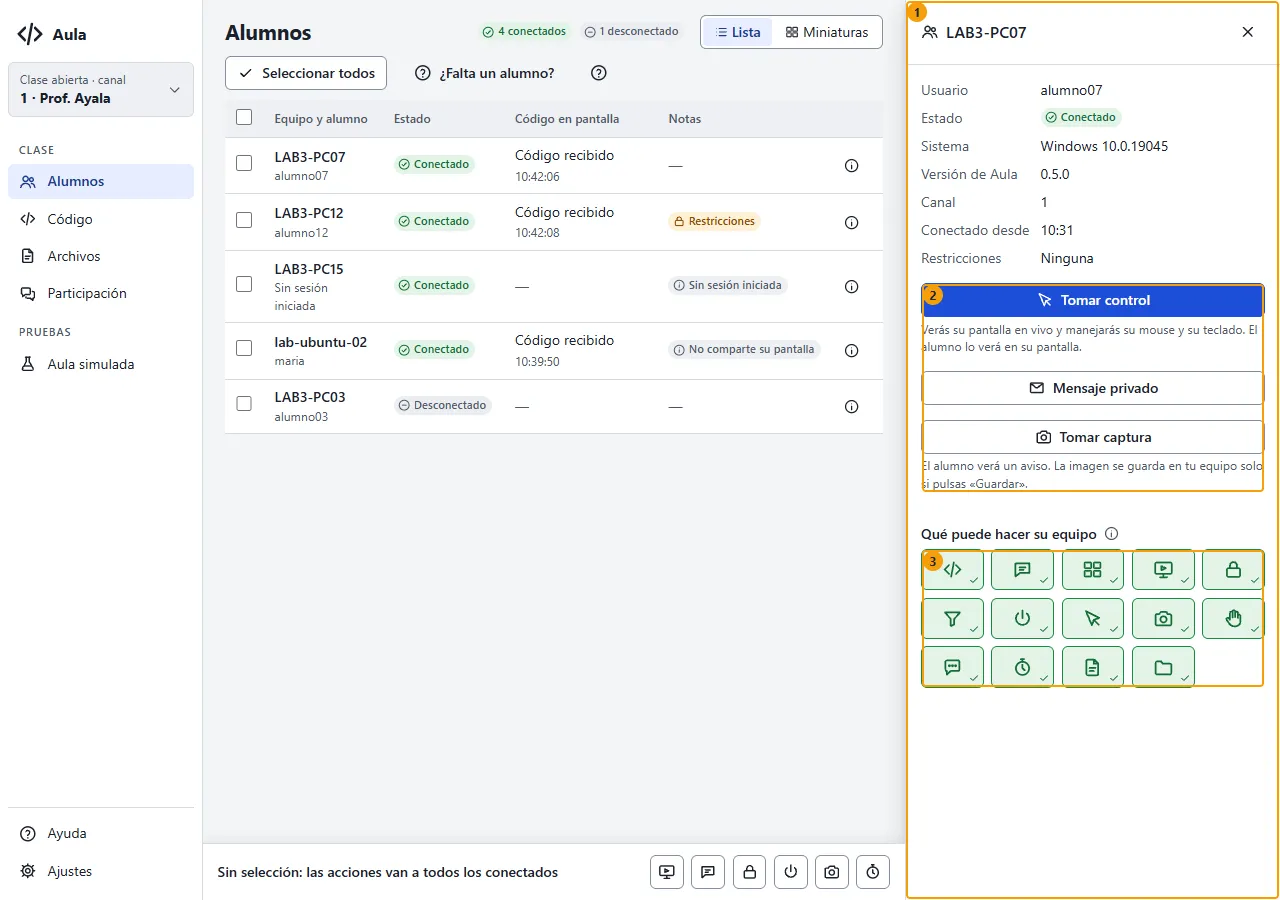
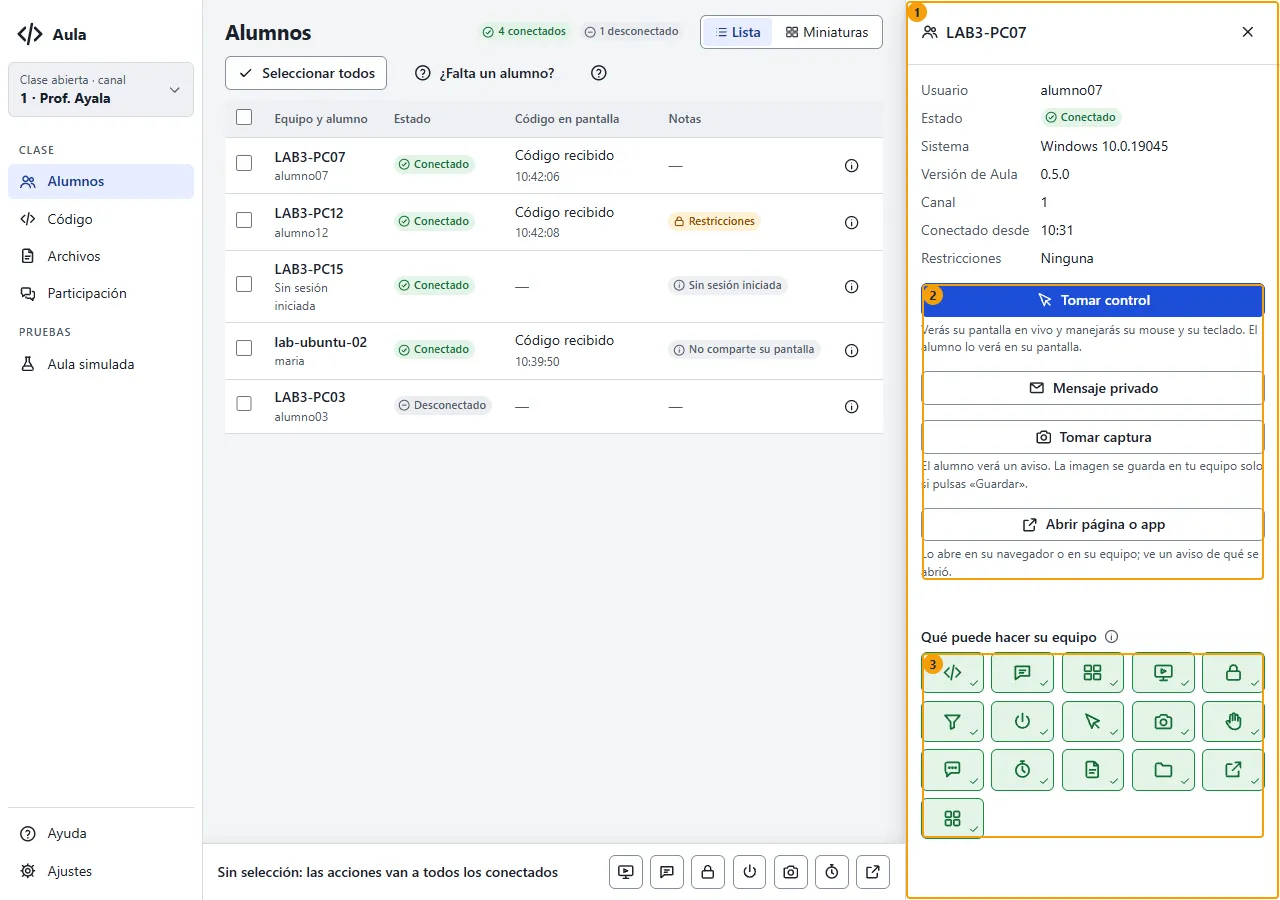
documentacion(ux): zonas y mapa de Abrir página o app
Zonas panel-abrir y ajustes-apps y dos pantallas nuevas en el mapa; las imágenes que
muestran la barra o la ficha se regeneraron.

Changed region(s): [[0.7188, 0.5289, 1.0, 0.9333], [0.5938, 0.9644, 0.6562, 0.9956], [0.4688, 0.9644, 0.5312, 0.9956]]

diff --git a/docs/v1/ux/MAPA.md b/docs/v1/ux/MAPA.md
@@ -39,7 +39,7 @@ archivo y sus imágenes los genera `node scripts/ux/mapa.mjs` (no se editan a ma
 | # | Zona | Qué es |
 |---|---|---|
 | 1 | **Ficha del alumno** | Panel derecho con los datos de un alumno y sus acciones. |
-| 2 | **Acciones sobre el alumno** | Tomar control, Mensaje privado, Tomar captura: las mismas que en la Pantalla grande (ACCIONES_ALUMNO en main.js). |
+| 2 | **Acciones sobre el alumno** | Tomar control, Mensaje privado, Tomar captura, Abrir página o app: las mismas que en la Pantalla grande (ACCIONES_ALUMNO en main.js). |
 | 3 | **Qué puede hacer su equipo** | Lista de capacidades del equipo del alumno. |
 
 ### Consola · Pantalla grande
@@ -60,6 +60,24 @@ archivo y sus imágenes los genera `node scripts/ux/mapa.mjs` (no se editan a ma
 | 1 | **Franja global** | Lo que sigue activo durante la clase (transmitir, control, energía, temporizador, aula simulada), con su botón para detenerlo. |
 | 2 | **Panel Aviso** | Mandar un aviso a la selección. |
 | 3 | **Barra de acciones** | Abajo: lo que se aplica a la selección (aviso, transmitir, restricciones, captura, temporizador, energía…). |
+
+### Consola · Abrir página o app
+
+![Consola · Abrir página o app](mapa/consola-abrir.webp)
+
+| # | Zona | Qué es |
+|---|---|---|
+| 1 | **Panel Abrir página o app** | Abrir una página en el navegador o una app permitida en los equipos de la selección, y las últimas que abriste. |
+| 2 | **Barra de acciones** | Abajo: lo que se aplica a la selección (aviso, transmitir, restricciones, captura, temporizador, energía…). |
+
+### Consola · Ajustes › Apps permitidas
+
+![Consola · Ajustes › Apps permitidas](mapa/consola-ajustes-apps.webp)
+
+| # | Zona | Qué es |
+|---|---|---|
+| 1 | **Ajustes** | Diálogo con Clase, Apariencia, Apps permitidas y Acerca de. |
+| 2 | **Apps permitidas** | Las apps que se pueden abrir en los equipos: nombre y ruta del .exe, con ejemplos. |
 
 ### Consola · Código
 
@@ -192,7 +210,7 @@ También las que no salen en una imagen (diálogos y paneles). El `id` es el que
 | `tarjeta-alumno` | Vista Alumnos › Miniaturas › Tarjeta del alumno | La miniatura de un alumno con su nombre; un clic abre la Pantalla grande. |
 | `barra-acciones` | Vista Alumnos › Barra de acciones | Abajo: lo que se aplica a la selección (aviso, transmitir, restricciones, captura, temporizador, energía…). |
 | `ficha` | Ficha del alumno | Panel derecho con los datos de un alumno y sus acciones. |
-| `ficha-acciones` | Ficha del alumno › Acciones sobre el alumno | Tomar control, Mensaje privado, Tomar captura: las mismas que en la Pantalla grande (ACCIONES_ALUMNO en main.js). |
+| `ficha-acciones` | Ficha del alumno › Acciones sobre el alumno | Tomar control, Mensaje privado, Tomar captura, Abrir página o app: las mismas que en la Pantalla grande (ACCIONES_ALUMNO en main.js). |
 | `ficha-puede` | Ficha del alumno › Qué puede hacer su equipo | Lista de capacidades del equipo del alumno. |
 | `pantalla-grande` | Pantalla grande | La pantalla de un alumno en grande; también la vista del control remoto. |
 | `pg-acciones` | Pantalla grande › Acciones sobre el alumno (Pantalla grande) | Las mismas acciones que en la Ficha del alumno. |
@@ -202,6 +220,7 @@ También las que no salen en una imagen (diálogos y paneles). El `id` es el que
 | `panel-captura` | Panel Captura | Tomar capturas de varios alumnos. |
 | `panel-temporizador` | Panel Temporizador | Lanzar un temporizador de ejercicio. |
 | `panel-energia` | Panel Energía | Apagar, reiniciar o cerrar sesión. |
+| `panel-abrir` | Panel Abrir página o app | Abrir una página en el navegador o una app permitida en los equipos de la selección, y las últimas que abriste. |
 | `captura` | Vista previa de captura | La captura de un alumno, con Guardar y Descartar. |
 | `codigo` | Vista Código | Preparar y enviar código a los alumnos. |
 | `codigo-editor` | Vista Código › Tarjeta del editor | Título, lenguaje, editor, «Enviar a» y los botones de emitir. |
@@ -227,7 +246,8 @@ También las que no salen en una imagen (diálogos y paneles). El `id` es el que
 | `ayuda` | Vista Ayuda (manual) | El manual, con búsqueda e índice. |
 | `panel-ayuda` | Panel de ayuda contextual | La página del manual de la vista actual, al costado. |
 | `falta` | Vista ¿Falta un alumno? | Comprobar la conexión y el asistente paso a paso. |
-| `ajustes` | Ajustes | Diálogo con Clase, Apariencia y Acerca de. |
+| `ajustes` | Ajustes | Diálogo con Clase, Apariencia, Apps permitidas y Acerca de. |
+| `ajustes-apps` | Ajustes › Apps permitidas | Las apps que se pueden abrir en los equipos: nombre y ruta del .exe, con ejemplos. |
 | `confirmar` | Diálogo de confirmación | «¿Seguro?» antes de una acción con consecuencias. |
 | `arranque` | Pantalla de arranque | Abrir la clase: canal y nombre. |
 
